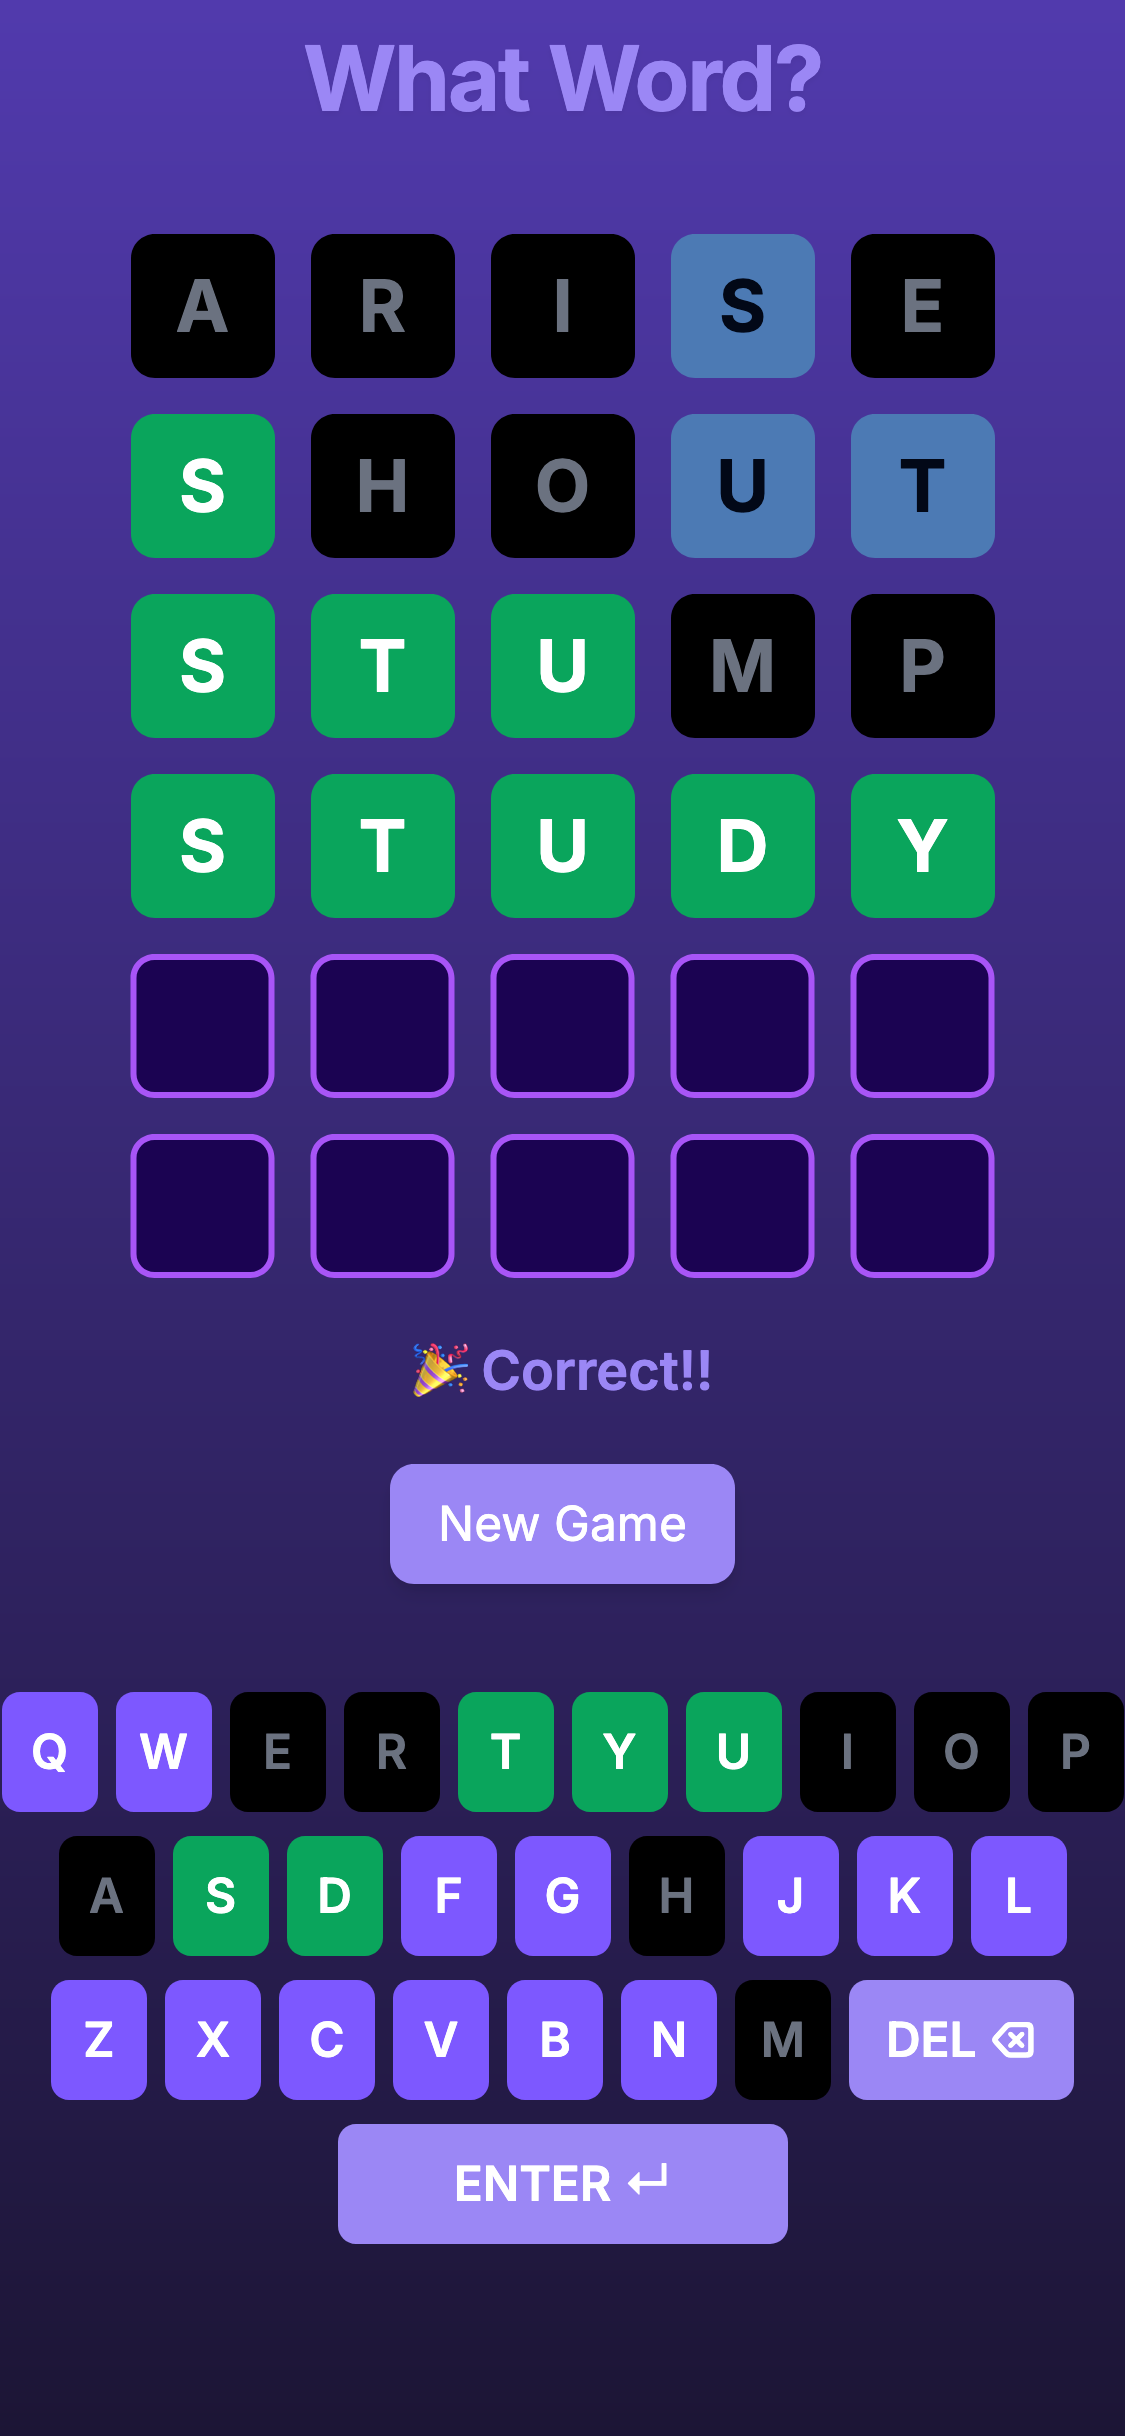
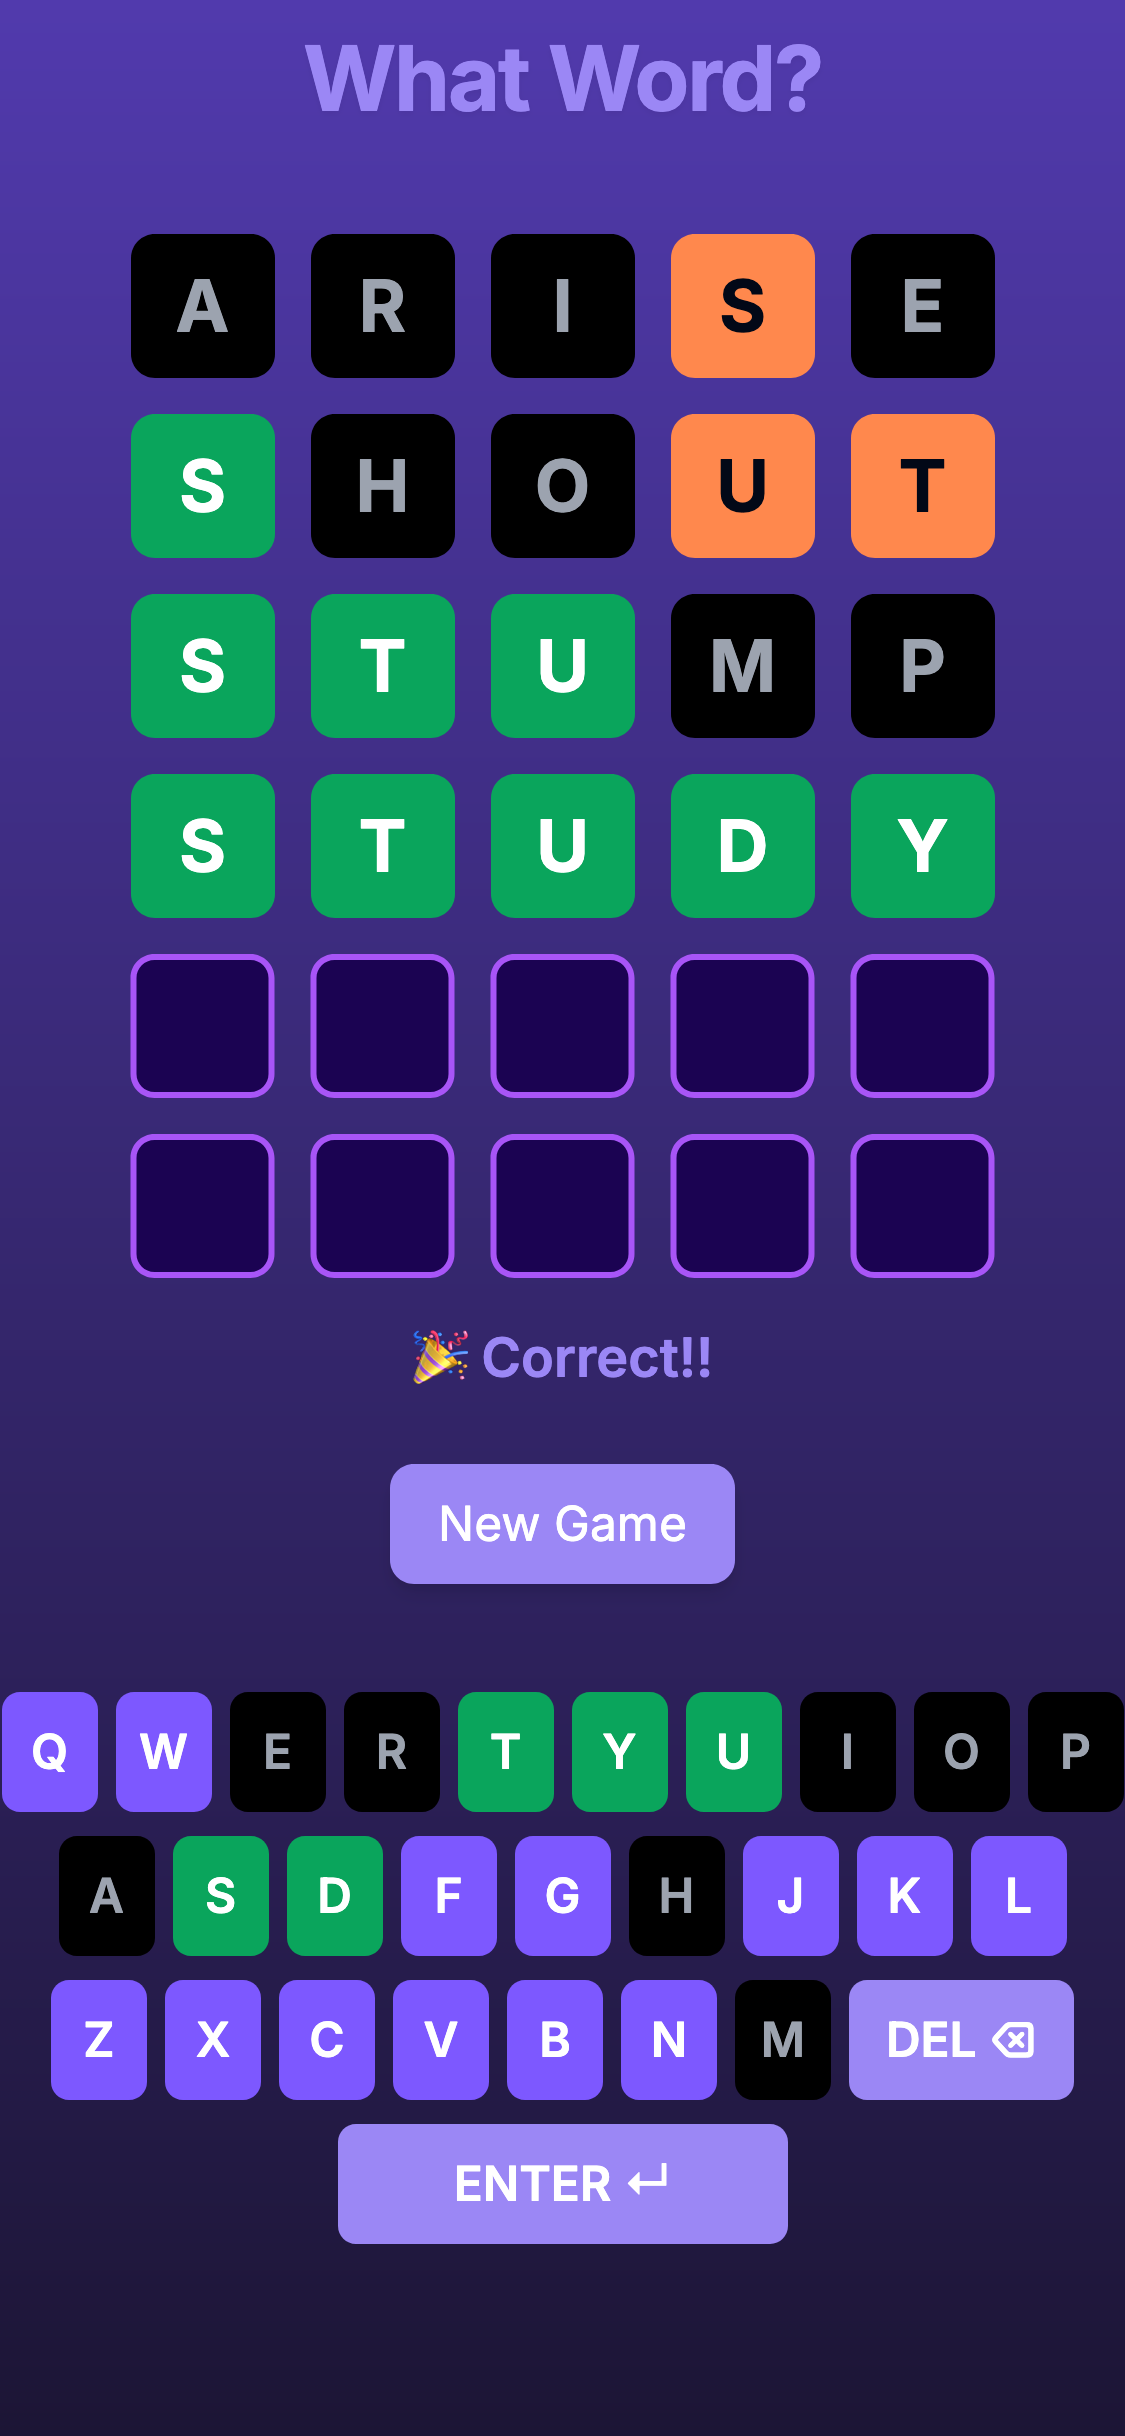
use coral orange color for present tiles. use lighter grey for absent key foreground

diff --git a/src/components/GuessTile.tsx b/src/components/GuessTile.tsx
@@ -6,7 +6,7 @@ import { type GuessedLetter, type LetterPresence } from '@/lib/types';
 const BACKGROUNDS: Map<LetterPresence, string> = new Map([
   ["correct", "bg-whatword-correct border-whatword-correct text-white"],
   ["present", "bg-whatword-present border-whatword-present"],
-  ["absent", "bg-whatword-absent border-gray-800 text-gray-500"]
+  ["absent", "bg-whatword-absent border-gray-800 text-gray-400"]
 ]);
 const DEFAULT_BACKGROUND = "bg-whatword-tile border-2 border-purple-500 text-white";
 const STYLES: CSSProperties = {

diff --git a/src/components/Keyboard.tsx b/src/components/Keyboard.tsx
@@ -23,7 +23,7 @@ const KEY_PATTERNS: Map<Key, string> = new Map([
 const BACKGROUNDS: Map<LetterPresence, string> = new Map([
   ["correct", "bg-whatword-correct text-white"],
   ["present", "bg-whatword-present"],
-  ["absent", "bg-whatword-absent text-gray-500"]
+  ["absent", "bg-whatword-absent text-gray-400"]
 ]);
 
 interface KeyboardProps {

diff --git a/tailwind.config.ts b/tailwind.config.ts
@@ -23,7 +23,7 @@ export default {
 					tile: 'rgb(27, 3, 82)',
 					title: "#9b87f5",
 					correct: 'rgb(10, 165, 92)',
-					present: 'rgb(76, 122, 180)',
+					present: '#FF884D',
 					absent: 'rgb(0, 0, 0)',
 					key: 'rgb(125, 88, 255)',
 					accent: "#9b87f5",
